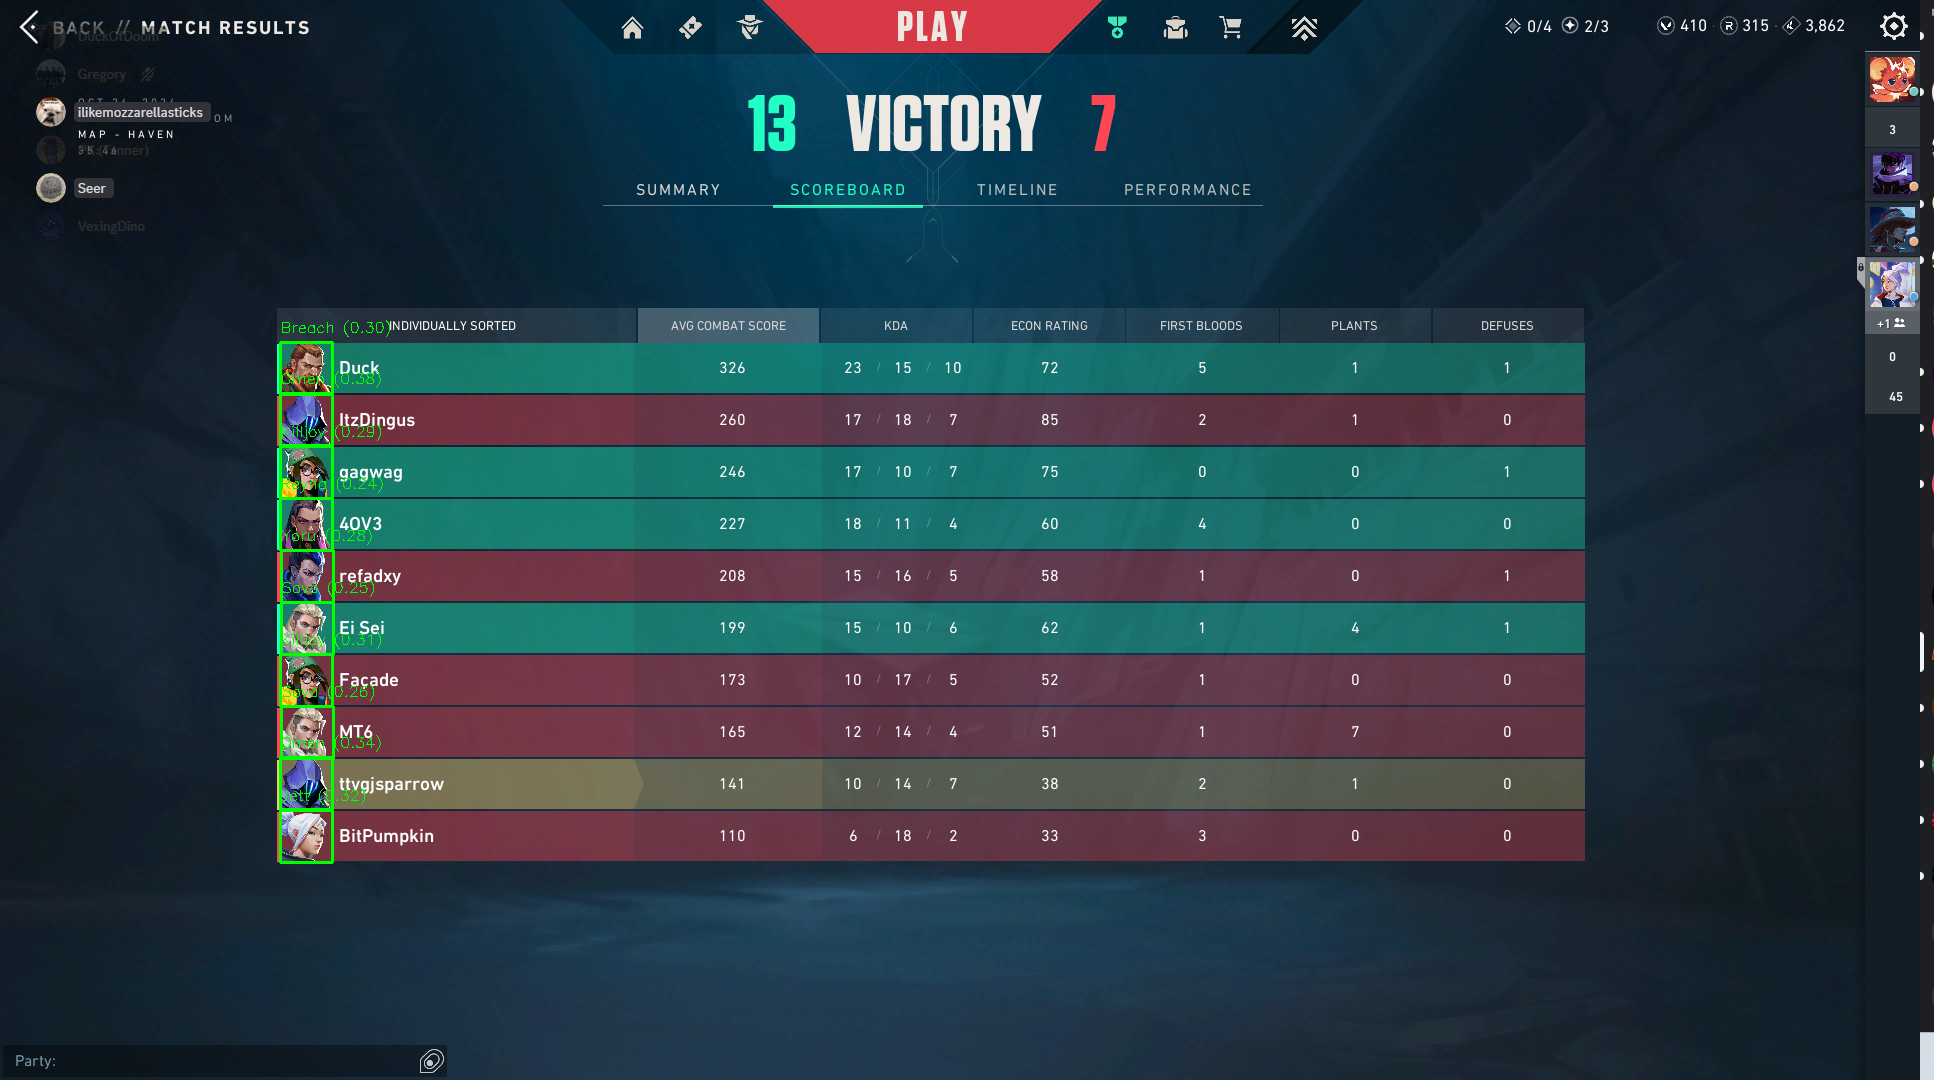
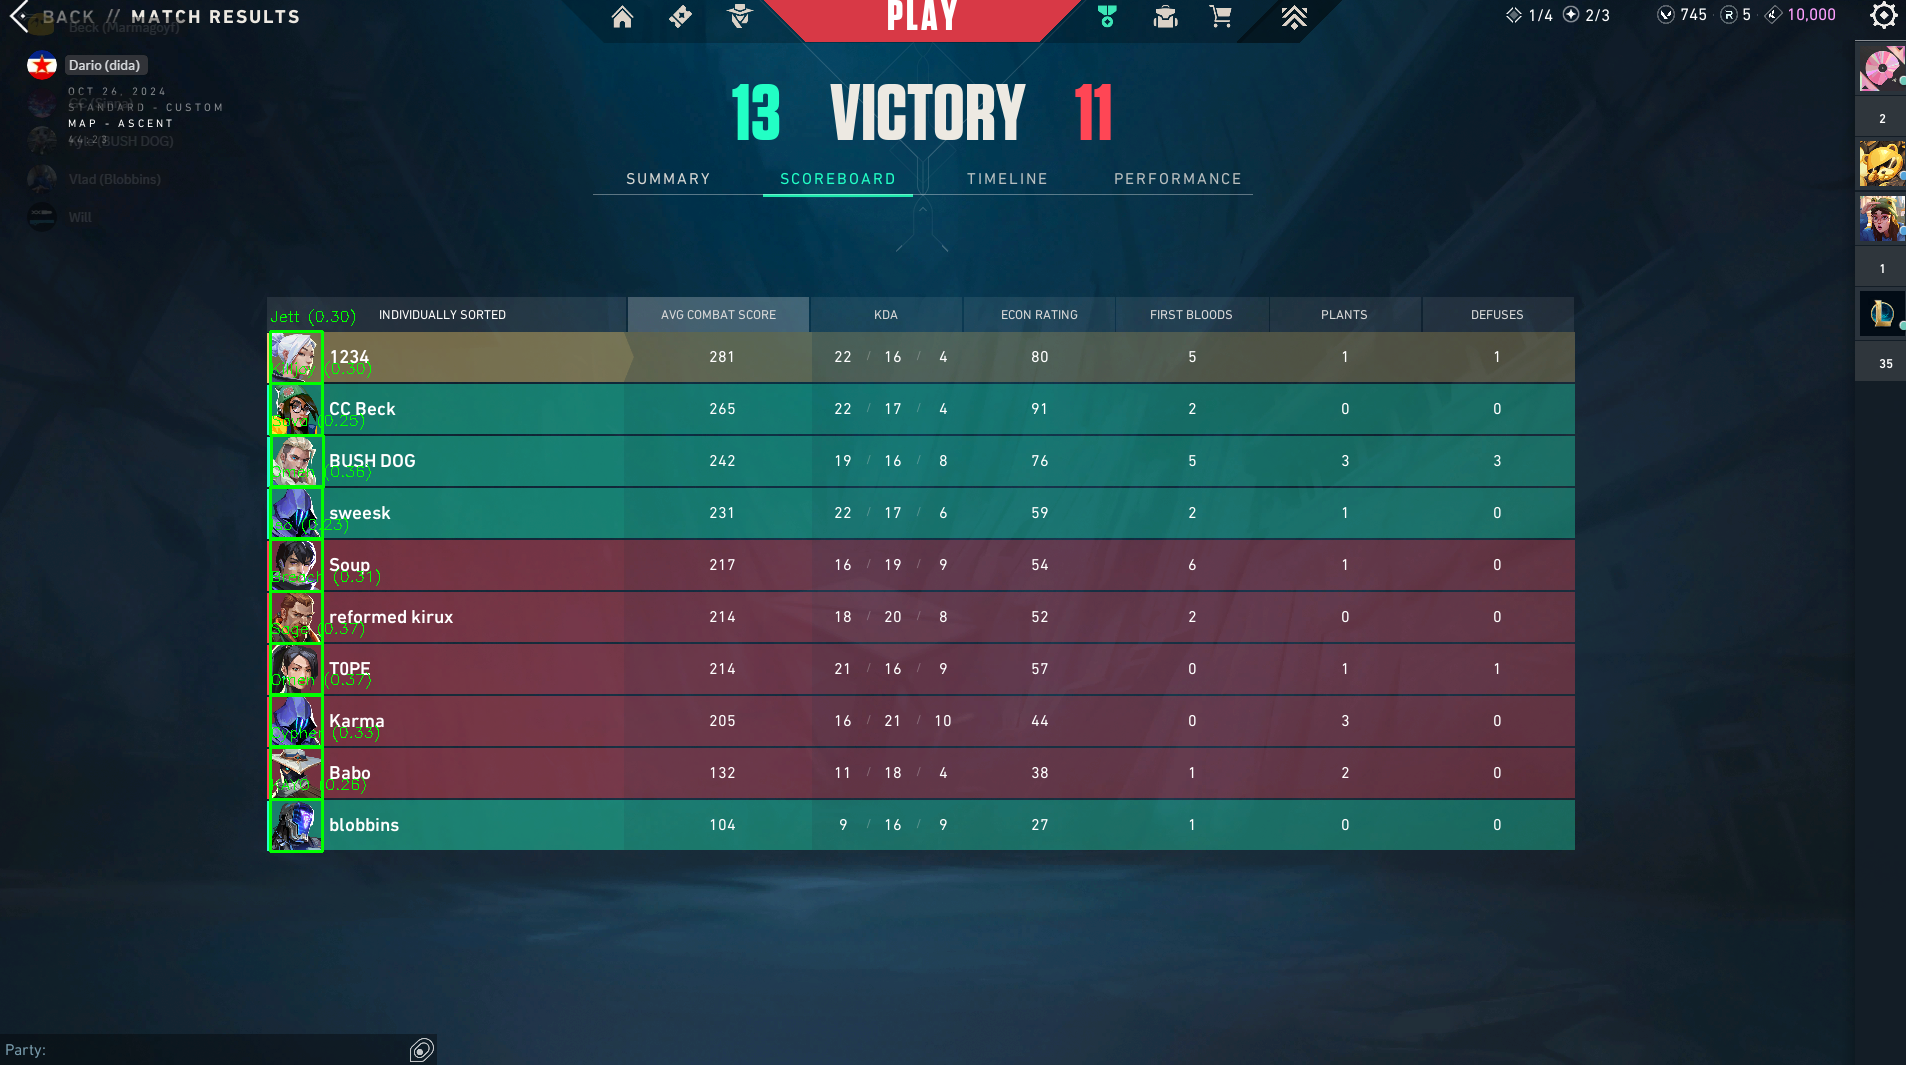
Template matching tuning in progress.

diff --git a/IconLoop.py b/IconLoop.py
@@ -1,0 +1,149 @@
+import cv2 as cv
+import numpy as np
+
+
+#Load screenshot
+for i in range(8):
+    img_rgb = cv.imread(f'Valorant/Scoreboards/{i}.png')
+    img_gray = cv.cvtColor(img_rgb, cv.COLOR_BGR2GRAY)
+
+    #Define the region of interest (ROI)
+    x, y, w, h = 240, 280, 120, 660
+    roi_gray = img_gray[y:y+h, x:x+w]
+    roi_rgb = img_rgb[y:y+h, x:x+w]
+    #cv.imshow('ROI', roi_rgb)
+    #cv.waitKey(0)
+
+    #List of agent names
+    agents = ["Astra", "Breach", "Brimstone", "Chamber",
+            "Clove", "Cypher", "Deadlock", "Fade", "Gekko", "Harbor", "Iso", 
+            "Jett", "Killjoy", "KAYO", "Neon", "Omen", "Phoenix", "Raze", 
+            "Reyna", "Sage", "Skye", "Sova", "Tejo", "Viper", "Vyse", "Yoru"]
+
+    #Store detections
+    detections = []
+
+    #Preprocess ROI
+    roi_gray = cv.GaussianBlur(roi_gray, (5, 5), 0)
+    roi_gray = cv.Canny(roi_gray, 50, 150)
+
+    #Perform template matching for each agent
+    for agent in agents:
+        template = cv.imread(f'Valorant/ValAgents/{agent}.png', cv.IMREAD_GRAYSCALE)
+        if template is None:
+            print(f"Template for {agent} not found.")
+            continue
+        #Apply same filters to templates
+        template = cv.GaussianBlur(template, (5, 5), 0)
+        template = cv.Canny(template, 50, 150)
+        #Attempt multiple scales for matching
+        for scale in np.linspace(0.5, 1.5, 10):
+            resized_template = cv.resize(template, (0, 0), fx=scale, fy=scale)
+            if roi_gray.shape[0] < resized_template.shape[0] or roi_gray.shape[1] < resized_template.shape[1]:
+                continue
+            res = cv.matchTemplate(roi_gray, resized_template, cv.TM_CCOEFF_NORMED)
+            threshold = 0.15
+            loc = np.where(res >= threshold)
+            for pt in zip(*loc[::-1]):
+                score = res[pt[1], pt[0]]
+                detections.append((score, agent, (pt[0] + x, pt[1] + y), resized_template.shape[::-1]))
+
+    #Sort detections by score
+    detections = sorted(detections, key=lambda x: x[0], reverse=True)
+
+    #Apply non-maximum suppression to filter out overlapping detections
+    def non_max_suppression(detections, overlap_thresh=0.3):
+        if len(detections) == 0:
+            return []
+
+        boxes = np.array([(*pt, pt[0] + w, pt[1] + h) for _, _, pt, (w, h) in detections])
+        scores = np.array([score for score, _, _, _ in detections])
+
+        x1 = boxes[:, 0]
+        y1 = boxes[:, 1]
+        x2 = boxes[:, 2]
+        y2 = boxes[:, 3]
+
+        area = (x2 - x1 + 1) * (y2 - y1 + 1)
+        idxs = np.argsort(scores)[::-1]
+
+        pick = []
+        while len(idxs) > 0:
+            i = idxs[0]
+            pick.append(i)
+            xx1 = np.maximum(x1[i], x1[idxs[1:]])
+            yy1 = np.maximum(y1[i], y1[idxs[1:]])
+            xx2 = np.minimum(x2[i], x2[idxs[1:]])
+            yy2 = np.minimum(y2[i], y2[idxs[1:]])
+
+            w = np.maximum(0, xx2 - xx1 + 1)
+            h = np.maximum(0, yy2 - yy1 + 1)
+
+            overlap = (w * h) / area[idxs[1:]]
+
+            idxs = idxs[np.where(overlap <= overlap_thresh)[0] + 1]
+
+        return [detections[i] for i in pick]
+
+    filtered_detections = non_max_suppression(detections)
+
+    #Limit of 2 duplicates per agent
+    agent_counts = {}
+    final_detections = []
+    for detection in filtered_detections:
+        _, agent, _, _ = detection
+        if agent not in agent_counts:
+            agent_counts[agent] = 0
+        if agent_counts[agent] < 2:
+            final_detections.append(detection)
+            agent_counts[agent] += 1
+
+
+    #Remove any detections outside of acceptable X range
+    img_result = img_rgb.copy()
+    print(f"Pre filter: {final_detections}")
+    detections_copy = final_detections.copy()
+    sum = 0
+    cnt = 0
+    for _, _, top_left, _ in detections_copy:
+        sum += top_left[0]
+        cnt += 1
+    for score, agent, top_left, (w, h) in detections_copy:
+        if top_left[0] > np.int64(285) or top_left[0] < np.int64(265):
+            final_detections.remove((score, agent, top_left, (w, h)))
+        
+    #final_detections = non_max_suppression(final_detections)
+    
+    #Ensure no less than 10 detections
+    if len(final_detections) < 10:
+        remaining_detections = [d for d in detections if d not in final_detections]
+        remaining_detections = sorted(remaining_detections, key=lambda x: x[0], reverse=True)
+        for detection in remaining_detections:
+            _, agent, _, _ = detection
+            if agent_counts.get(agent, 0) < 2:
+                final_detections.append(detection)
+                agent_counts[agent] = agent_counts.get(agent, 0) + 1
+            if len(final_detections) == 10:
+                break
+
+    #Draw the top 10 matches' rectangles
+    final_detections = final_detections[:10]
+    print(f"Post filter: {final_detections}")
+    for score, agent, top_left, (w, h) in final_detections:
+        bottom_right = (top_left[0] + w, top_left[1] + h)
+        cv.rectangle(img_result, top_left, bottom_right, (0, 255, 0), 2)
+        cv.putText(img_result, f'{agent} ({score:.2f})', (top_left[0], top_left[1] - 10),
+                cv.FONT_HERSHEY_SIMPLEX, 0.5, (0, 255, 0), 1)
+
+    #Save result
+    output_path = f'Valorant/ValMatch/scoreboard_result{i}.png'
+    #cv.imshow('Result', img_result)
+    #cv.waitKey(0)
+    cv.imwrite(output_path, img_result)
+
+    #Print results
+    print(f"Top detections for scoreboard {i}:")
+    for i, (score, agent, top_left, _) in enumerate(final_detections, 1):
+        print(f"{i}. Agent: {agent}, Score: {score:.2f}, Location: {top_left[0]}")
+
+    print(f"Result saved to: {output_path}")
